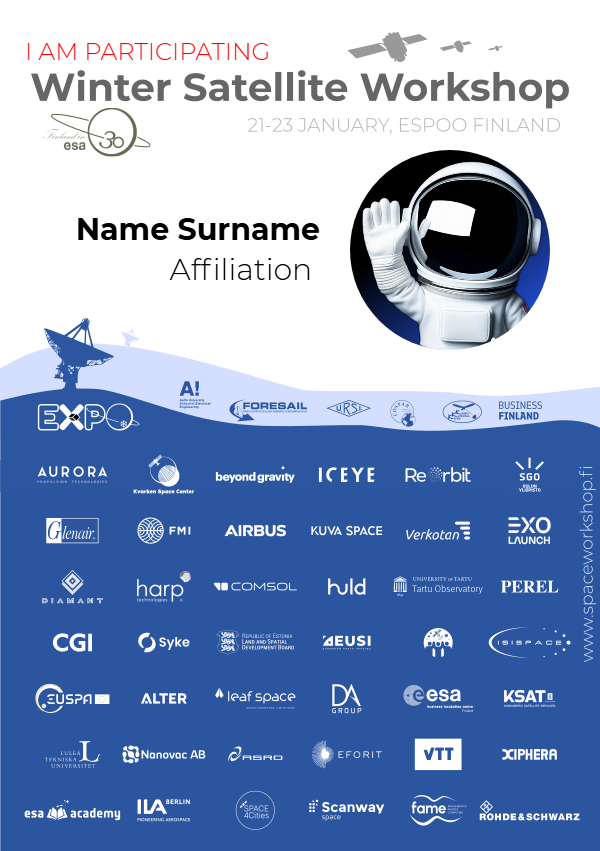
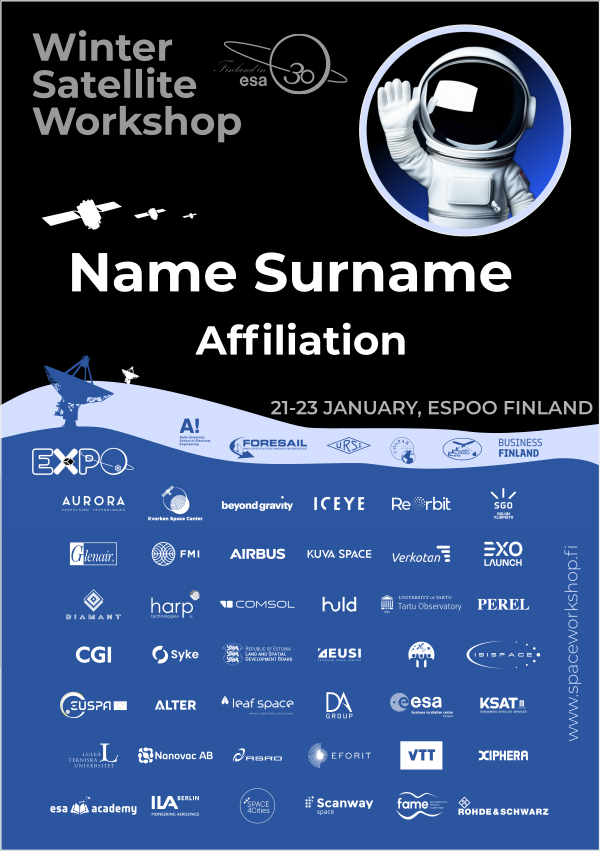
badge updated

diff --git a/badgegenerator.js b/badgegenerator.js
@@ -8,6 +8,7 @@ const imagePreview = document.getElementById('imagePreview');
 const cropBtn = document.getElementById('cropBtn');
 
 let cropper; // To hold the Cropper.js instance
+let namefontcolor = '#FFFFFF';
 
 // Form submit event
 badgeForm.addEventListener('submit', (e) => {
@@ -16,36 +17,46 @@ badgeForm.addEventListener('submit', (e) => {
     const name = document.getElementById('name').value;
     const title = document.getElementById('title').value;
     const imageUpload = document.getElementById('imageUpload').files[0];
-    const selectRole = document.querySelector('input[name="role"]:checked');
+    const selectTheme = document.querySelector('input[name="colorTheme"]:checked').value;
 	let textx = 300;
 	let textalign = 'center';
 	
 	inputForm.style.display = 'none';
-
-    // Draw the badge template
+	
+	// Draw the badge template
     const templateImage = new Image();
     templateImage.crossOrigin = 'anonymous'; // Enable CORS for the template image
-    templateImage.src = 'template.png';
-
+	
+	 if (selectTheme === 'dark'){
+		templateImage.src = 'template_dark.png';
+		namefontcolor = '#FFFFFF';
+	 } else {
+		 templateImage.src = 'template_light.png';
+		namefontcolor = '#000000';
+	 }
+		 
+	 
     templateImage.onload = function () {
         ctx.drawImage(templateImage, 0, 0, badgeCanvas.width, badgeCanvas.height);
-		if (imageUpload) {
-			textx = 320;
-			textalign = 'right';
-		}
+		//if (imageUpload) {
+		//	textx = 320;
+		//	textalign = 'right';
+		//}
         // Add text to the badge
-			ctx.font = 'bold 30px Montserrat';
-            ctx.fillStyle = '#000';
-            ctx.textAlign = textalign; // Options: 'left', 'right', 'center'
-            ctx.fillText(name, textx, 240);
-			ctx.font = '24px Montserrat';
-            ctx.fillText(title, textx, 280);
+		document.fonts.load('700 54px Montserrat').then(() => {
+			ctx.font = '700 52px Montserrat';
+            ctx.fillStyle = namefontcolor;
+            ctx.textAlign = 'center'; // Options: 'left', 'right', 'center'
+            ctx.fillText(name, textx, 290);
+			ctx.fillStyle = '#999999';
+			ctx.font = '500 36px Montserrat';
+            ctx.fillText(title, textx, 350);
 			
-			ctx.font = '24px Montserrat';
-            ctx.fillStyle = 'red';
-            ctx.textAlign = 'left'; // Options: 'left', 'right', 'center'
-            ctx.fillText(selectRole.value, 25, 60);
-			
+			//ctx.font = '24px Montserrat';
+            //ctx.fillStyle = 'red';
+            //ctx.textAlign = 'left'; // Options: 'left', 'right', 'center'
+            //ctx.fillText(selectRole.value, 25, 60);
+			});
 
         // If an image is uploaded, process it
         if (imageUpload) {
@@ -76,10 +87,10 @@ badgeForm.addEventListener('submit', (e) => {
                         // Draw the circular cropped image on the canvas
                         ctx.save();
                         ctx.beginPath();
-                        ctx.arc(450, 250, 100, 0, Math.PI * 2); // Create a circle (x, y, radius)
+                        ctx.arc(465, 130, 100, 0, Math.PI * 2); // Create a circle (x, y, radius)
                         ctx.closePath();
                         ctx.clip();
-                        ctx.drawImage(croppedImage, 350, 150, 200, 200);
+                        ctx.drawImage(croppedImage, 365, 30, 200, 200);
                         ctx.restore();
 
                         // Show the canvas and download button

diff --git a/badge.html b/badge.html
@@ -18,7 +18,7 @@
     <link rel="stylesheet" href="assets/vendor/magnific-popup/magnific-popup.css">
     <link rel="stylesheet" href="assets/vendor/animate.css/animate.min.css">
     <link rel="stylesheet" href="assets/vendor/swiper/css/swiper.min.css">
-    <link href="https://fonts.googleapis.com/css?family=Montserrat" rel="stylesheet">
+	<link href="https://fonts.googleapis.com/css2?family=Montserrat:wght@400;700;900&display=swap" rel="stylesheet">
 	<link rel="stylesheet" href="https://cdn.jsdelivr.net/npm/cropperjs@1.5.13/dist/cropper.min.css">
     <link rel="stylesheet" href="assets/css/main_updated.css">
     <!-- endinject -->
@@ -56,7 +56,7 @@
                              $("#navbar-container").load("index.html #navbar-menu");
                          });
                          </script>
-						 >
+						 
 						<!-- /.navbar-collapse -->					
                     </div>
                     
@@ -85,8 +85,11 @@
         <div class="container">
             <div class="row">
                 <div class="col-sm-5">
-					
-				   <p><img class="img-responsive" src="assets/imgs/badge/examplebadge.png" alt=""/></p>
+					<h2>Light theme example</h2>
+				   <p><img class="img-responsive" src="assets/imgs/badge/examplebadge_light.png" alt=""/></p>
+					<h2>Dark theme example</h2>
+				   <p><img class="img-responsive" src="assets/imgs/badge/examplebadge_dark.png" alt=""/></p>
+				   
 
                 </div>
 				
@@ -95,21 +98,25 @@
 
     <h2>Generate your badge for social media</h2>
     <div id="inputForm" style="display:block;">
+	<p> Give your name and affiliation </p>
 	<form id="badgeForm">
         <label for="name">Name:</label>
         <input type="text" id="name" required><br><br>
 
         <label for="title">Affiliation:</label>
         <input type="text" id="title"><br><br>
-		
-		<label for="role1">I am presenting at</label>
-		<input type="radio" id="role1" name="role" value="I AM PRESENTING AT"><br><br>
-		<label for="role2">I am participating</label>
-		<input type="radio" id="role2" name="role" value="I AM PARTICIPATING" checked><br><br>
 
-        <label for="imageUpload">Upload portret photo (optional):</label>
+        <label for="imageUpload">Upload a photo if you like</label>
         <input type="file" id="imageUpload" accept="image/*"><br><br>
-
+		<p> Select color scheme </p>
+		<label for="theme2">
+		<input type="radio" id="theme2" name="colorTheme" value="light" checked> Light theme
+		</label>	<br>
+		<label for="theme1">
+		<input type="radio" id="theme1" name="colorTheme" value="dark" default> Dark theme
+		</label><br>
+	
+		<br>
         <button type="submit">Next</button>
     </form>
 	</div>
